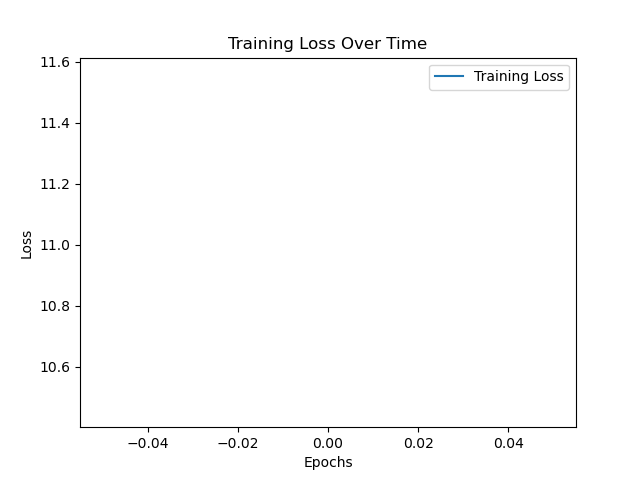
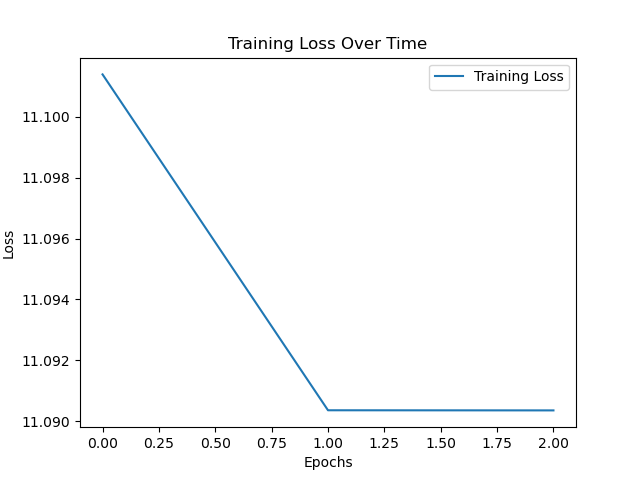
minor changes

diff --git a/old_notebooks/features-extractors/PathDino/PathDino_main_512.py b/old_notebooks/features-extractors/PathDino/PathDino_main_512.py
@@ -27,6 +27,7 @@ from sklearn.model_selection import train_test_split
 from sklearn.metrics import classification_report, accuracy_score
 from sklearn.decomposition import IncrementalPCA
 from sklearn.preprocessing import StandardScaler
+from sklearn.linear_model import SGDClassifier
 from sklearn.pipeline import make_pipeline
 from PathDino import get_pathDino_model
 
@@ -45,93 +46,44 @@ torchvision_archs = sorted(name for name in torchvision_models.__dict__
 
 def get_args_parser():
     parser = argparse.ArgumentParser('DINO', add_help=False)
-
-    # Model parameters
     parser.add_argument('--arch', default='pathdino', type=str,
-        choices=['pathdino'] \
-                + torchvision_archs + torch.hub.list("facebookresearch/xcit:main"),
-        help="""Name of architecture to train. For quick experiments with ViTs,
-        we recommend using vit_tiny or vit_small.""")
-    parser.add_argument('--patch_size', default=16, type=int, help="""Size in pixels
-        of input square patches - default 16 (for 16x16 patches). Using smaller
-        values leads to better performance but requires more memory. Applies only
-        for ViTs (vit_tiny, vit_small and vit_base). If <16, we recommend disabling
-        mixed precision training (--use_fp16 false) to avoid unstabilities.""")
-    parser.add_argument('--out_dim', default=65536, type=int, help="""Dimensionality of
-        the DINO head output. For complex and large datasets large values (like 65k) work well.""")
-    parser.add_argument('--norm_last_layer', default=True, type=utils.bool_flag,
-        help="""Whether or not to weight normalize the last layer of the DINO head.
-        Not normalizing leads to better performance but can make the training unstable.
-        In our experiments, we typically set this paramater to False with vit_small and True with vit_base.""")
-    parser.add_argument('--momentum_teacher', default=0.996, type=float, help="""Base EMA
-        parameter for teacher update. The value is increased to 1 during training with cosine schedule.
-        We recommend setting a higher value with small batches: for example use 0.9995 with batch size of 256.""")
-    parser.add_argument('--use_bn_in_head', default=False, type=utils.bool_flag,
-        help="Whether to use batch normalizations in projection head (Default: False)")
+        choices=['pathdino'] + torchvision_archs + torch.hub.list("facebookresearch/xcit:main"),
+        help="Name of architecture to train. For quick experiments with ViTs, we recommend using vit_tiny or vit_small.")
+    parser.add_argument('--patch_size', default=16, type=int, help="Size in pixels of input square patches - default 16.")
+    parser.add_argument('--out_dim', default=65536, type=int, help="Dimensionality of the DINO head output.")
+    parser.add_argument('--norm_last_layer', default=True, type=utils.bool_flag, help="Whether or not to weight normalize the last layer of the DINO head.")
+    parser.add_argument('--momentum_teacher', default=0.996, type=float, help="Base EMA parameter for teacher update.")
+    parser.add_argument('--use_bn_in_head', default=False, type=utils.bool_flag, help="Whether to use batch normalizations in projection head.")
 
-    # Temperature teacher parameters
-    parser.add_argument('--warmup_teacher_temp', default=0.04, type=float,
-        help="""Initial value for the teacher temperature: 0.04 works well in most cases.
-        Try decreasing it if the training loss does not decrease.""")
-    parser.add_argument('--teacher_temp', default=0.04, type=float, help="""Final value (after linear warmup)
-        of the teacher temperature. For most experiments, anything above 0.07 is unstable. We recommend
-        starting with the default value of 0.04 and increase this slightly if needed.""")
-    parser.add_argument('--warmup_teacher_temp_epochs', default=3, type=int,
-        help='Number of warmup epochs for the teacher temperature (Default: 30).')
+    parser.add_argument('--warmup_teacher_temp', default=0.4, type=float, help="Initial value for the teacher temperature.")
+    parser.add_argument('--teacher_temp', default=0.04, type=float, help="Final value of the teacher temperature.")
+    parser.add_argument('--warmup_teacher_temp_epochs', default=3, type=int, help='Number of warmup epochs for the teacher temperature.')
 
-    # Training/Optimization parameters
-    parser.add_argument('--use_fp16', type=utils.bool_flag, default=True, help="""Whether or not
-        to use half precision for training. Improves training time and memory requirements,
-        but can provoke instability and slight decay of performance. We recommend disabling
-        mixed precision if the loss is unstable, if reducing the patch size or if training with bigger ViTs.""")
-    parser.add_argument('--weight_decay', type=float, default=0.0004, help="""Initial value of the
-        weight decay. With ViT, a smaller value at the beginning of training works well.""")
-    parser.add_argument('--weight_decay_end', type=float, default=0.4, help="""Final value of the
-        weight decay. We use a cosine schedule for WD and using a larger decay by
-        the end of training improves performance for ViTs.""")
-    parser.add_argument('--clip_grad', type=float, default=0, help="""Maximal parameter
-        gradient norm if using gradient clipping. Clipping with norm .3 ~ 1.0 can
-        help optimization for larger ViT architectures. 0 for disabling.""")
-    # parser.add_argument('--batch_size_per_gpu', default=64, type=int,
-    parser.add_argument('--batch_size_per_gpu', default=8, type=int,
-        help='Per-GPU batch-size : number of distinct images loaded on one GPU.')
-    parser.add_argument('--epochs', default=30, type=int, help='Number of epochs of training.')
-    parser.add_argument('--freeze_last_layer', default=10, type=int, help="""Number of epochs   
-        during which we keep the output layer fixed. Typically doing so during
-        the first epoch helps training. Try increasing this value if the loss does not decrease.""")
-    parser.add_argument("--lr", default=5e-5, type=float, help="""Learning rate at the end of
-        linear warmup (highest LR used during training). The learning rate is linearly scaled
-        with the batch size, and specified here for a reference batch size of 256.""")
-    parser.add_argument("--warmup_epochs", default=5, type=int,  
-        help="Number of epochs for the linear learning-rate warm up.")
-    parser.add_argument('--min_lr', type=float, default=1e-7, help="""Target LR at the
-        end of optimization. We use a cosine LR schedule with linear warmup.""")
-    parser.add_argument('--optimizer', default='adamw', type=str,
-        choices=['adamw', 'sgd', 'lars'], help="""Type of optimizer. We recommend using adamw with ViTs.""")
-    parser.add_argument('--drop_path_rate', type=float, default=0.1, help="stochastic depth rate")
+    parser.add_argument('--use_fp16', type=utils.bool_flag, default=False, help="Whether or not to use half precision for training.")
+    parser.add_argument('--weight_decay', type=float, default=0.0001, help="Initial value of the weight decay.")
+    parser.add_argument('--weight_decay_end', type=float, default=0.1, help="Final value of the weight decay.")
+    parser.add_argument('--clip_grad', type=float, default=0.5, help="Maximal parameter gradient norm for clipping.")
+    parser.add_argument('--batch_size_per_gpu', default=2, type=int, help='Per-GPU batch-size.')
+    parser.add_argument('--epochs', default=5, type=int, help='Number of epochs of training.')
+    parser.add_argument('--freeze_last_layer', default=0, type=int, help="Number of epochs to keep the output layer fixed.")
+    parser.add_argument("--lr", default=5e-4, type=float, help="Learning rate at the end of linear warmup.")
+    parser.add_argument("--warmup_epochs", default=0, type=int, help="Number of epochs for the linear learning-rate warm up.")
+    parser.add_argument('--min_lr', type=float, default=1e-6, help="Target LR at the end of optimization.")
+    parser.add_argument('--optimizer', default='adamw', type=str, choices=['adamw', 'sgd', 'lars'], help="Type of optimizer.")
 
-    # Multi-crop parameters
-    parser.add_argument('--global_crops_scale', type=float, nargs='+', default=(0.4, 1.),
-        help="""Scale range of the cropped image before resizing, relatively to the origin image.
-        Used for large global view cropping. When disabling multi-crop (--local_crops_number 0), we
-        recommand using a wider range of scale ("--global_crops_scale 0.14 1." for example)""")
-    parser.add_argument('--local_crops_number', type=int, default=8, help="""Number of small
-        local views to generate. Set this parameter to 0 to disable multi-crop training.
-        When disabling multi-crop we recommend to use "--global_crops_scale 0.14 1." """)
-    parser.add_argument('--local_crops_scale', type=float, nargs='+', default=(0.05, 0.4),
-        help="""Scale range of the cropped image before resizing, relatively to the origin image.
-        Used for small local view cropping of multi-crop.""")
+    parser.add_argument('--global_crops_scale', type=float, nargs='+', default=(0.8, 1.0), help="Scale range of the cropped image before resizing for large global view cropping.")
+    parser.add_argument('--local_crops_number', type=int, default=8, help="Number of small local views to generate.")
+    parser.add_argument('--local_crops_scale', type=float, nargs='+', default=(0.05, 0.4), help="Scale range of the cropped image before resizing for small local view cropping.")
 
-    # Misc
-    parser.add_argument('--data_path', default='/path/to/histology/image/folder', type=str,
-        help='Please specify path to the ImageNet training data.')
+    parser.add_argument('--train_data_path', default='CRC_WSIs_no_train_test/train', type=str, help='Specify path to the training data.')
+    parser.add_argument('--test_data_path', default='CRC_WSIs_no_train_test/test', type=str, help='Specify path to the testing data.')   
     parser.add_argument('--output_dir', default=".", type=str, help='Path to save logs and checkpoints.')
     parser.add_argument('--saveckp_freq', default=1, type=int, help='Save checkpoint every x epochs.')  
     parser.add_argument('--seed', default=0, type=int, help='Random seed.')
-    parser.add_argument('--num_workers', default=0, type=int, help='Number of data loading workers per GPU.') 
-    parser.add_argument("--dist_url", default="env://", type=str, help="""url used to set up
-        distributed training; see https://pytorch.org/docs/stable/distributed.html""")
-    parser.add_argument("--local-rank", default=0, type=int, help="Please ignore and do not set this argument.")
+    parser.add_argument('--num_workers', default=4, type=int, help='Number of data loading workers per GPU.') 
+    parser.add_argument("--dist_url", default="env://", type=str, help="URL used to set up distributed training.")
+    parser.add_argument("--local-rank", default=0, type=int, help="Ignore and do not set this argument.")
+    parser.add_argument('--drop_path_rate', type=float, default=0.1, help="Stochastic depth rate")  # Added drop_path_rate
     return parser
 
 def plot_pca_variance(pca, output_dir):
@@ -220,41 +172,42 @@ def extract_embeddings(data_loader, model):
         yield np.vstack(embeddings), np.hstack(labels)
 
 
-def incremental_pca_svm_train(data_loader, model, n_components=128):
+def incremental_pca_svm_train(data_loader, model, n_components=128, batch_size=10):
+    # Initialize the PCA, SVM, and Scaler
     pca = IncrementalPCA(n_components=n_components)
-    svm = SVC(kernel='linear')
     scaler = StandardScaler()
+    svm = SGDClassifier(loss='hinge')  # Using SGDClassifier to fit SVM incrementally
 
-    # First pass: Fit PCA
+    # Extract embeddings for all data and fit PCA incrementally
     for embeddings, labels in extract_embeddings(data_loader, model):
         pca.partial_fit(embeddings)
-    
-    # Second pass: Transform data and fit SVM
+
+    # Transform the data using fitted PCA and scale it
     for embeddings, labels in extract_embeddings(data_loader, model):
         reduced_embeddings = pca.transform(embeddings)
         reduced_embeddings = scaler.fit_transform(reduced_embeddings)
-        svm.fit(reduced_embeddings, labels)
+        # Fit the SVM incrementally
+        svm.partial_fit(reduced_embeddings, labels, classes=np.unique(labels))
 
     return svm, pca, scaler
-
 
 def incremental_pca_svm_evaluate(data_loader, model, svm, pca, scaler):
     all_embeddings = []
     all_labels = []
-    
+
     for embeddings, labels in extract_embeddings(data_loader, model):
         reduced_embeddings = pca.transform(embeddings)
         reduced_embeddings = scaler.transform(reduced_embeddings)
         all_embeddings.append(reduced_embeddings)
         all_labels.append(labels)
-        
+
     all_embeddings = np.vstack(all_embeddings)
     all_labels = np.hstack(all_labels)
-    
+
     predictions = svm.predict(all_embeddings)
-    accuracy = accuracy_score(all_labels, predictions)
-    print("Accuracy:", accuracy)
-    print("Classification Report:\n", classification_report(all_labels, predictions))
+    # accuracy = accuracy_score(all_labels, predictions)
+    # print("Accuracy:", accuracy)
+    # print("Classification Report:\n", classification_report(all_labels, predictions))
     return all_labels, predictions
 
 def compute_mean_std(dataset):
@@ -291,18 +244,31 @@ def train_dino(args):
         args.local_crops_scale,
         args.local_crops_number,
     )
-    dataset = CustomDatasetFolders(args.data_path, transform=transform)
+    train_dataset = CustomDatasetFolders(args.train_data_path, transform=transform)
+    test_dataset = CustomDatasetFolders(args.test_data_path, transform=transform)
     
-    sampler = torch.utils.data.DistributedSampler(dataset, shuffle=True)
-    data_loader = torch.utils.data.DataLoader(
-        dataset,
-        sampler=sampler,
+    train_sampler = torch.utils.data.DistributedSampler(train_dataset, shuffle=True)
+    test_sampler = torch.utils.data.DistributedSampler(test_dataset, shuffle=False)
+    
+    train_loader = torch.utils.data.DataLoader(
+        train_dataset,
+        sampler=train_sampler,
         batch_size=args.batch_size_per_gpu,
         num_workers=args.num_workers,
         pin_memory=False,
         drop_last=True,
     )
-    print(f"Data loaded: there are {len(dataset)} images.")
+    
+    test_loader = torch.utils.data.DataLoader(
+        test_dataset,
+        sampler=test_sampler,
+        batch_size=args.batch_size_per_gpu,
+        num_workers=args.num_workers,
+        pin_memory=False,
+        drop_last=True,
+    )
+    print(f"Training data loaded: there are {len(train_dataset)} images.")
+    print(f"Testing data loaded: there are {len(test_dataset)} images.")
 
     # ============ building student and teacher networks ... ============
     if args.arch in vits.__dict__.keys():
@@ -318,7 +284,7 @@ def train_dino(args):
     print("Student and Teacher are loaded...")
 
     # Load initial weights
-    weights_path = os.path.join('inference', 'PathDino512.pth')
+    weights_path = os.path.join('.\inference', 'PathDino512.pth')
     if os.path.exists(weights_path):
         state_dict = torch.load(weights_path, map_location='cpu')
         student.load_state_dict(state_dict, strict=False)
@@ -389,17 +355,17 @@ def train_dino(args):
     lr_schedule = utils.cosine_scheduler(
         args.lr * (args.batch_size_per_gpu * utils.get_world_size()) / 256.,  # linear scaling rule
         args.min_lr,
-        args.epochs, len(data_loader),
+        args.epochs, len(train_loader),
         warmup_epochs=args.warmup_epochs,
     )
     wd_schedule = utils.cosine_scheduler(
         args.weight_decay,
         args.weight_decay_end,
-        args.epochs, len(data_loader),
+        args.epochs, len(train_loader),
     )
     # momentum parameter is increased to 1. during training with a cosine schedule
     momentum_schedule = utils.cosine_scheduler(args.momentum_teacher, 1,
-                                               args.epochs, len(data_loader))
+                                               args.epochs, len(train_loader))
     print(f"Loss, optimizer and schedulers ready.")
 
     # ============ optionally resume training ... ============
@@ -417,18 +383,25 @@ def train_dino(args):
 
     start_time = time.time()
     print("Starting DINO training !")
-
+    
+    """
+    # Compute mean and std
+    dataset = datasets.ImageFolder(args.train_data_path, transform=transforms.ToTensor())
+    mean, std = compute_mean_std(dataset)
+    print(f"Computed mean: {mean}, std: {std}")
+    """
+    
     # Initialize list to store training losses
     training_losses = []
 
     
     # Main training loop
     for epoch in range(start_epoch, args.epochs):
-        data_loader.sampler.set_epoch(epoch)
+        train_loader.sampler.set_epoch(epoch)
 
         # ============ training one epoch of DINO ... ============
         train_stats = train_one_epoch(student, teacher, teacher_without_ddp, dino_loss,
-            data_loader, optimizer, lr_schedule, wd_schedule, momentum_schedule,
+            train_loader, optimizer, lr_schedule, wd_schedule, momentum_schedule,
             epoch, fp16_scaler, args)
 
         # Append current epoch loss to the list
@@ -461,10 +434,10 @@ def train_dino(args):
     print('Training time {}'.format(total_time_str))
     
     # Extract embeddings using the trained teacher model (should be better than student)
-    svm_classifier, pca, scaler = incremental_pca_svm_train(data_loader, teacher)
+    svm_classifier, pca, scaler = incremental_pca_svm_train(train_loader, teacher)
 
     # Evaluate the classifier
-    y_test, y_pred = incremental_pca_svm_evaluate(data_loader, teacher, svm_classifier, pca, scaler)
+    y_test, y_pred = incremental_pca_svm_evaluate(test_loader, teacher, svm_classifier, pca, scaler)
     
     print("Accuracy:", accuracy_score(y_test, y_pred))
     print("Classification Report:\n", classification_report(y_test, y_pred))
@@ -620,7 +593,7 @@ class DataAugmentationDINO(object):
         ])
         normalize = transforms.Compose([
             transforms.ToTensor(),
-            transforms.Normalize((0.8688, 0.7047, 0.8022), (0.0803, 0.1345, 0.0987)),
+            transforms.Normalize((0.7584, 0.6039, 0.7131), (0.1377, 0.1771, 0.1331)),
         ])
         
         rotator = transforms.RandomRotation(degrees=(0,360))
@@ -765,10 +738,4 @@ if __name__ == '__main__':
     parser = argparse.ArgumentParser('DINO', parents=[get_args_parser()])
     args = parser.parse_args()
     Path(args.output_dir).mkdir(parents=True, exist_ok=True)
-    
-    # Compute mean and std
-    dataset = datasets.ImageFolder(args.data_path, transform=transforms.ToTensor())
-    mean, std = compute_mean_std(dataset)
-    print(f"Computed mean: {mean}, std: {std}")
-    
     train_dino(args)
